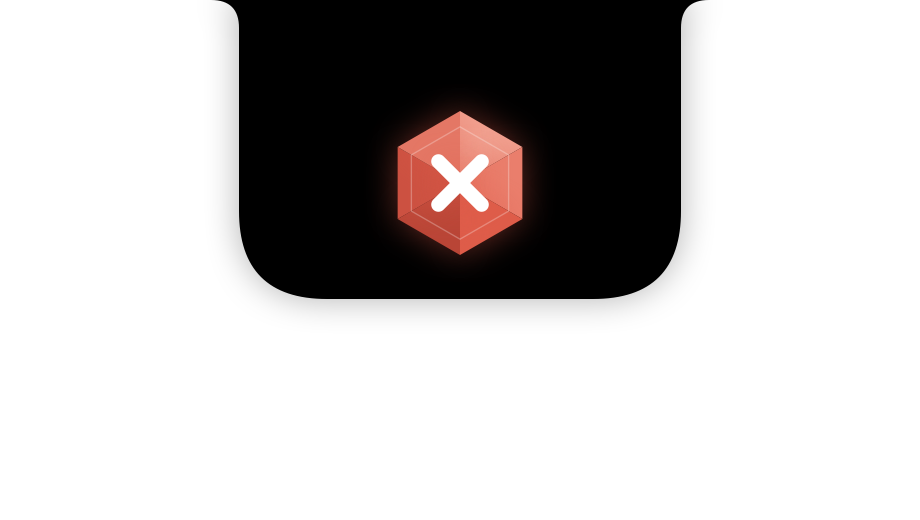
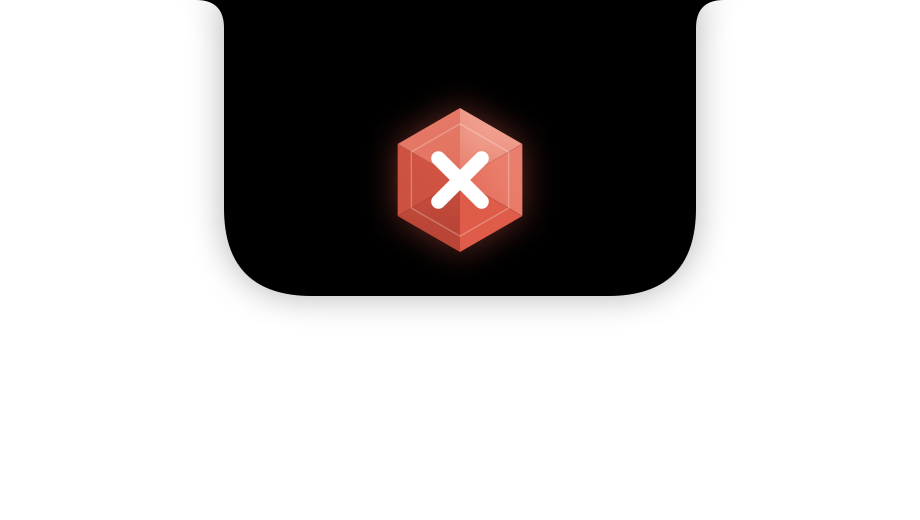
Refresh README and every screenshot for 1.0.2
- All screenshots are rendered from the current code at 1.0.2, including the
  notch face scan and six lock-screen badge states (new: Blink to unlock and
  Try again). Snapshot mode can now render the lock-screen badges.
- README covers automatic retries, scanning again by moving the pointer, why
  the keyboard can't be used, Require a blink, and the 3-second pause after
  locking; Input Monitoring is gone from the signing notes.
- Removed the unused scanner and paused images.
- The Blink badge no longer suggests moving your head when Require a blink is on.

diff --git a/App/LockScreen/LockBadge.swift b/App/LockScreen/LockBadge.swift
@@ -54,8 +54,8 @@ final class LockBadge {
         case success
         case failure
         case message(String, String)
-        /// Recognized, waiting for a blink or small head movement.
-        case blink
+        /// Recognized, waiting for a blink, or a small head movement when that counts too.
+        case blink(headMovementCounts: Bool)
 
         var usesWidePanel: Bool {
             switch self {
@@ -159,6 +159,21 @@ final class LockBadge {
         }
     }
 }
+
+#if DEBUG
+extension LockBadge {
+    /// For snapshots: the open badge under a typical notch, as it looks at the lock screen.
+    static func snapshot(_ content: Content) -> some View {
+        let state = State()
+        state.content = content
+        state.isOpen = true
+        state.notchSize = CGSize(width: 200, height: 32)
+        return LockBadgeView(state: state).frame(width: windowSize.width, height: windowSize.height)
+    }
+
+    static let snapshotSize = windowSize
+}
+#endif
 
 /// The black shape: flush with the top edge, flaring into it at the sides, and rounded at the bottom.
 struct NotchBody: Shape {
@@ -269,12 +284,14 @@ private struct BadgeContent: View {
                     .font(.system(size: 14, weight: .semibold))
                     .foregroundStyle(.white)
             }
-        case .blink:
+        case .blink(let headMovementCounts):
             HStack(spacing: 12) {
                 ScanMark(state: .scanning).frame(width: 36, height: 36)
                 VStack(alignment: .leading, spacing: 2) {
                     Text("Blink to unlock").font(.system(size: 14, weight: .semibold)).foregroundStyle(.white)
-                    Text("Or move your head a little").font(.system(size: 12)).foregroundStyle(.white.opacity(0.7))
+                    Text(headMovementCounts ? "Or move your head a little" : "Look at the camera and blink")
+                        .font(.system(size: 12))
+                        .foregroundStyle(.white.opacity(0.7))
                 }
             }
         case .message(let title, let detail):

diff --git a/App/Debug/Snapshot.swift b/App/Debug/Snapshot.swift
@@ -41,6 +41,20 @@ enum Snapshot {
             .split(separator: ",").compactMap { name in Page.allCases.first { $0.rawValue.lowercased() == name.lowercased() } }
             ?? Page.allCases
         let size = CGSize(width: MainView.size.width, height: Double(environment["SESAME_SNAPSHOT_HEIGHT"] ?? "") ?? MainView.size.height)
+        if environment["SESAME_SNAPSHOT_PAGES"]?.contains("badges") == true {
+            let badges: [(String, LockBadge.Content)] = [
+                ("scanning", .scanning),
+                ("blink", .blink(headMovementCounts: true)),
+                ("turn", .turn(.left, progress: 0.6)),
+                ("success", .success),
+                ("failure", .failure),
+                ("retry", .message("Try again", LockBadge.retryHint)),
+            ]
+            for (name, content) in badges {
+                let view = LockBadge.snapshot(content).background(Color.white).preferredColorScheme(.dark)
+                write(view, size: LockBadge.snapshotSize, to: folder.appendingPathComponent("notch-\(name).png"))
+            }
+        }
         if environment["SESAME_SNAPSHOT_PAGES"]?.contains("notch") == true {
             let enrollment = Enrollment()
             enrollment.simulateScan(share: 0.45)

diff --git a/App/Services/UnlockController.swift b/App/Services/UnlockController.swift
@@ -187,7 +187,7 @@ final class UnlockController {
         if let challenge = attempt?.challenge, !challenge.isComplete {
             badge.show(.turn(challenge.direction, progress: challenge.progress))
         } else if attempt?.isWaitingForProof == true {
-            badge.show(.blink)
+            badge.show(.blink(headMovementCounts: !vault.contents.settings.requiresBlink))
         } else {
             badge.show(.scanning)
         }
@@ -238,7 +238,7 @@ final class UnlockController {
             endScan()
             if current.sawOwner {
                 // Recognized but never blinked: keep the prompt up and look again.
-                badge.show(.blink)
+                badge.show(.blink(headMovementCounts: !vault.contents.settings.requiresBlink))
                 afterMiss(.unproven)
             } else {
                 badge.hide()

diff --git a/README.md b/README.md
@@ -16,7 +16,9 @@ Face unlock for your Mac. Sesame recognizes you when your Mac wakes and signs yo
    Security**, scroll down, and click **Open Anyway** next to the message about Sesame. You only do this once.
 3. Follow the checklist on Overview: allow the camera and Accessibility, scan your face, and save your Mac password.
 
-Sesame lives in the menu bar. Lock your Mac and look at the camera; blink if the notch asks you to.
+Sesame lives in the menu bar. When your Mac wakes, look at the camera and blink if the notch asks you to. If a scan
+doesn't work out, Sesame tries again on its own, and moving the pointer or trackpad anywhere starts another scan. You
+can always type your password as usual.
 
 ## Updates
 
@@ -45,7 +47,7 @@ from this repository can replace it.
 | ![Conditions](docs/conditions.png) | ![Activity](docs/activity.png) |
 | **Conditions.** Only unlock on trusted Wi-Fi, near your watch, or during set hours. | **Activity.** Every unlock and failed attempt. No images are kept. |
 | ![Help](docs/help.png) | ![About](docs/about.png) |
-| **Help.** Searchable answers to common problems. | **About.** Version and updates. |
+| **Help.** Searchable answers to common problems. | **About.** Version, what's new, and updates. |
 
 Adding a face happens in the notch, right under the camera you're looking at:
 
@@ -53,17 +55,28 @@ Adding a face happens in the notch, right under the camera you're looking at:
 
 At the lock screen, Sesame shows its progress in the notch too:
 
-| Scanning | Turn your head | Unlocked | Not recognized |
-|---|---|---|---|
-| ![Scanning](docs/notch-scanning.png) | ![Turn](docs/notch-turn.png) | ![Success](docs/notch-success.png) | ![Failure](docs/notch-failure.png) |
+| Scanning | Blink to unlock | Turn your head |
+|---|---|---|
+| ![Scanning](docs/notch-scanning.png) | ![Blink to unlock](docs/notch-blink.png) | ![Turn your head](docs/notch-turn.png) |
+| **Unlocked** | **Not recognized** | **Try again** |
+| ![Unlocked](docs/notch-success.png) | ![Not recognized](docs/notch-failure.png) | ![Try again](docs/notch-retry.png) |
+
+When Sesame recognizes you but hasn't seen you blink or move yet, it asks you to blink. A scan that sees you tries up
+to three more times on its own, and one that sees nobody tries once more. After that, move the pointer or trackpad to
+scan again. The keyboard can't start a scan: at the lock screen macOS hides key presses from every app, to protect your
+password.
 
 ## How it protects you
 
 - Touch ID or your Mac password is needed after every restart and every 48 hours by default.
 - Recognition needs several clear matches in a row, plus proof of life: a blink or a natural head movement, seen on a
   face that clearly matches. A partly covered face, or a photo held over someone else's face, can't unlock or vouch for
-  a blink. A face surrounded by a phone or picture frame is rejected.
-- Face unlock pauses after 5 failed attempts until the Mac is unlocked another way.
+  a blink. A face surrounded by a phone or picture frame is rejected. Turn on **Require a blink** in Security to accept
+  only a blink.
+- Face unlock pauses after 5 failed attempts until the Mac is unlocked another way. A suspected spoof never retries on
+  its own.
+- Sesame doesn't scan the moment your Mac locks, and ignores the pointer for 3 seconds after, so locking and walking
+  away doesn't unlock it again.
 - Adding a face, changing the saved password, and changing security settings need fresh authentication.
 - Optional conditions limit unlocking to trusted Wi-Fi, a connected Bluetooth device, or set hours.
 - Faces, password, history, and settings are stored in one AES-GCM encrypted file.
@@ -87,8 +100,9 @@ Debug builds never update themselves. To render every screen with sample data, w
 SESAME_SNAPSHOT_DIR=~/Desktop/sesame-shots path/to/Debug/Sesame.app/Contents/MacOS/Sesame
 ```
 
-Add `SESAME_SNAPSHOT_SCENARIO=new`, `locked`, `restart`, or `update` for other states. That's how the screenshots here
-are made.
+Add `SESAME_SNAPSHOT_SCENARIO=new`, `locked`, `keymissing`, `restart`, `update`, or `updated` for other states, and
+`SESAME_SNAPSHOT_PAGES=notch,badges` for the notch face scan and the lock-screen badges. That's how every screenshot
+here is made.
 
 ## Tests
 
@@ -129,8 +143,8 @@ pipeline without releasing.
 ### Signing, without a paid developer account
 
 Releases are signed with the free **Apple Development** certificate Xcode creates for your Apple ID (Xcode › Settings
-› Accounts). Because Apple issued it, macOS recognizes every release as the same app, so Accessibility, Input
-Monitoring, Camera, and the Keychain item holding Sesame's key all carry over between updates. Builds from Xcode use
+› Accounts). Because Apple issued it, macOS recognizes every release as the same app, so Camera,
+Accessibility, and the Keychain item holding Sesame's key all carry over between updates. Builds from Xcode use
 the same certificate and store their key in the same place, so you can switch between a build from Xcode and a
 release without losing your data. Both release paths refuse to publish a build signed any other way.
 
